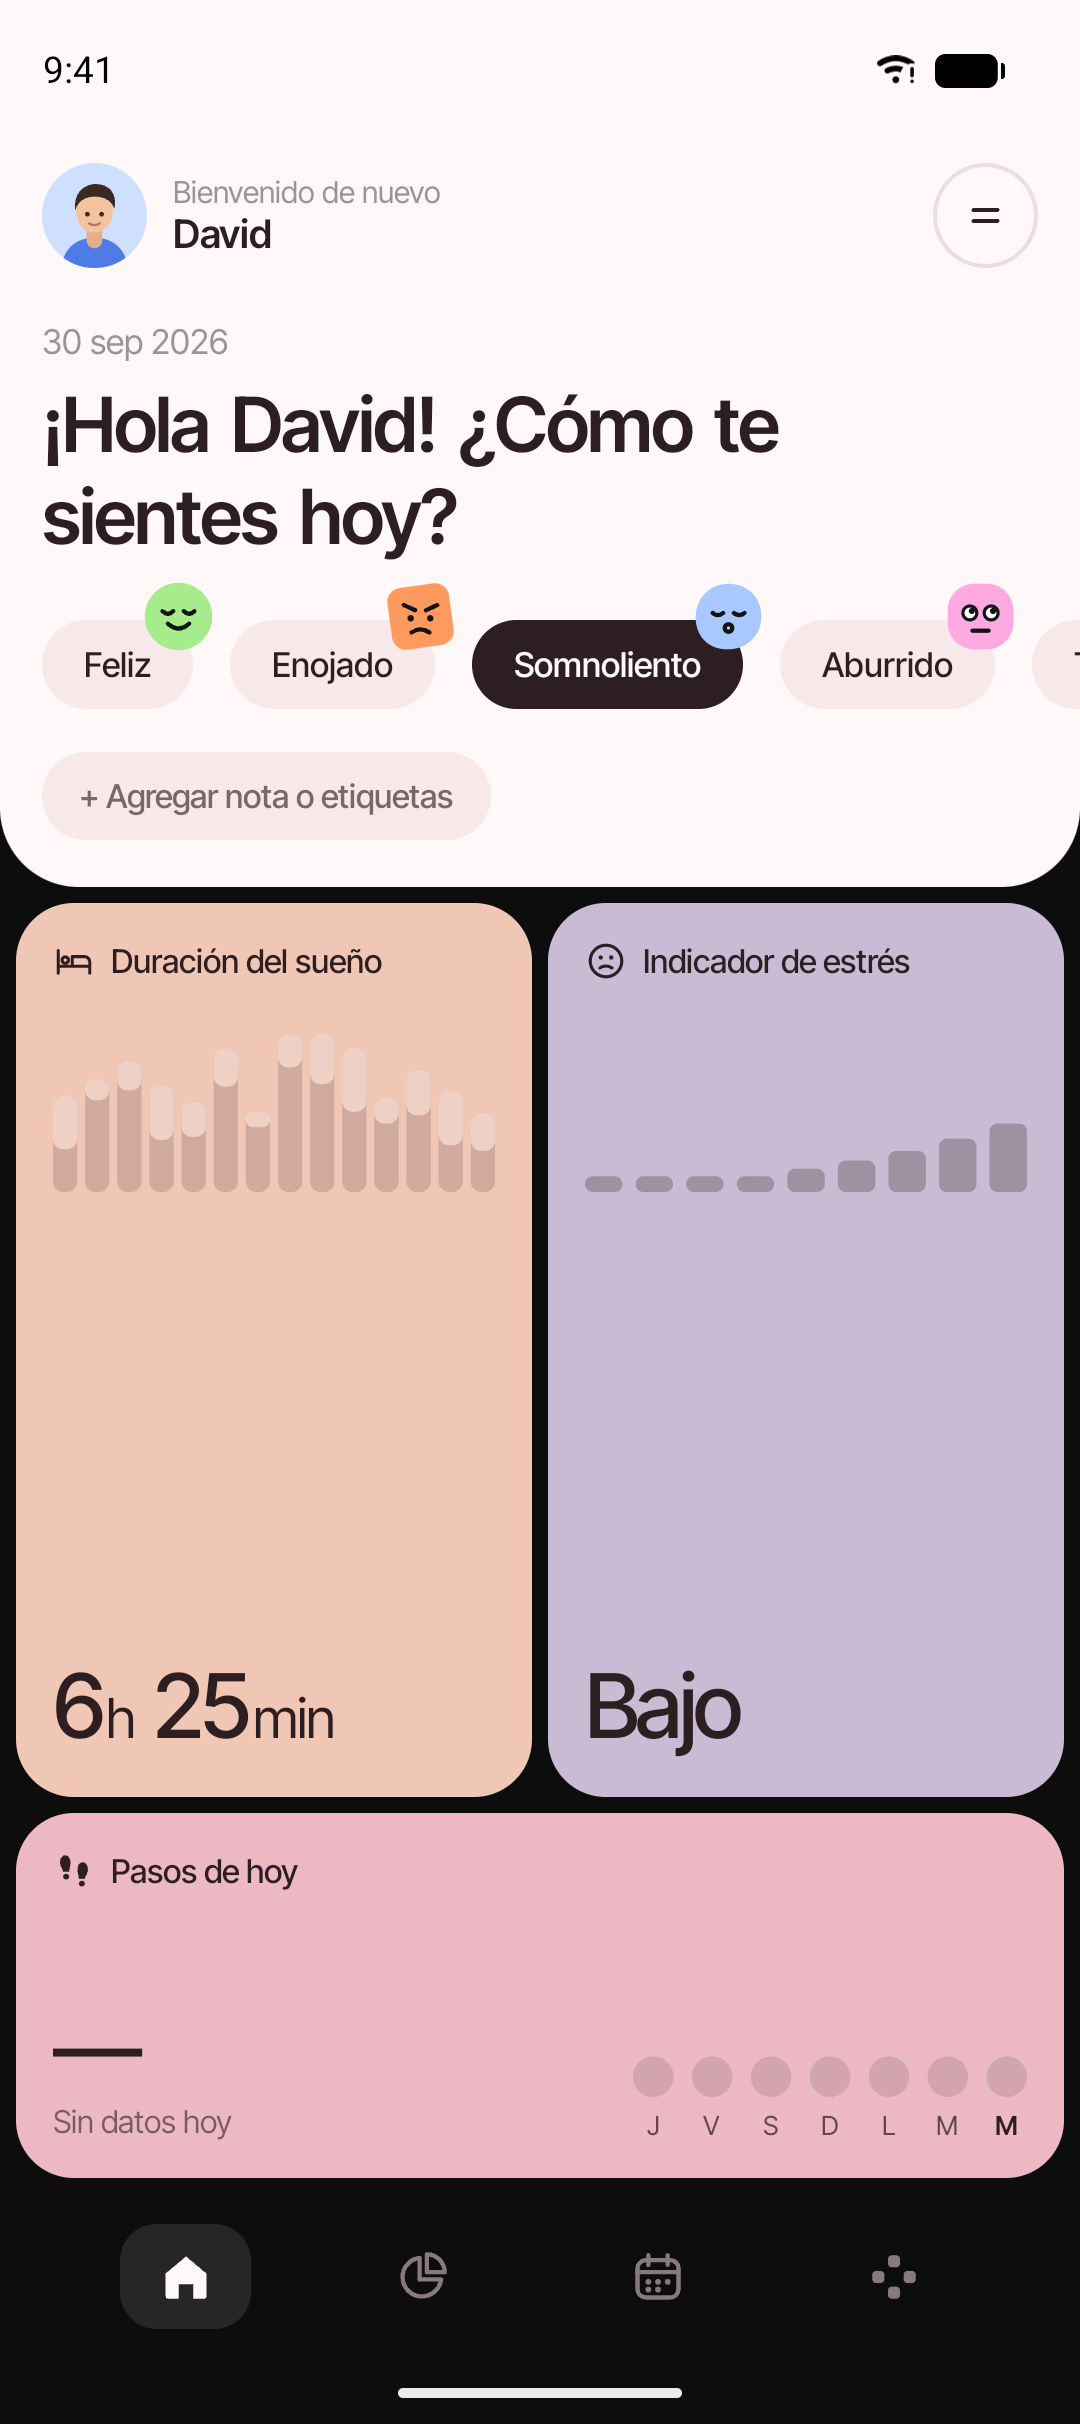
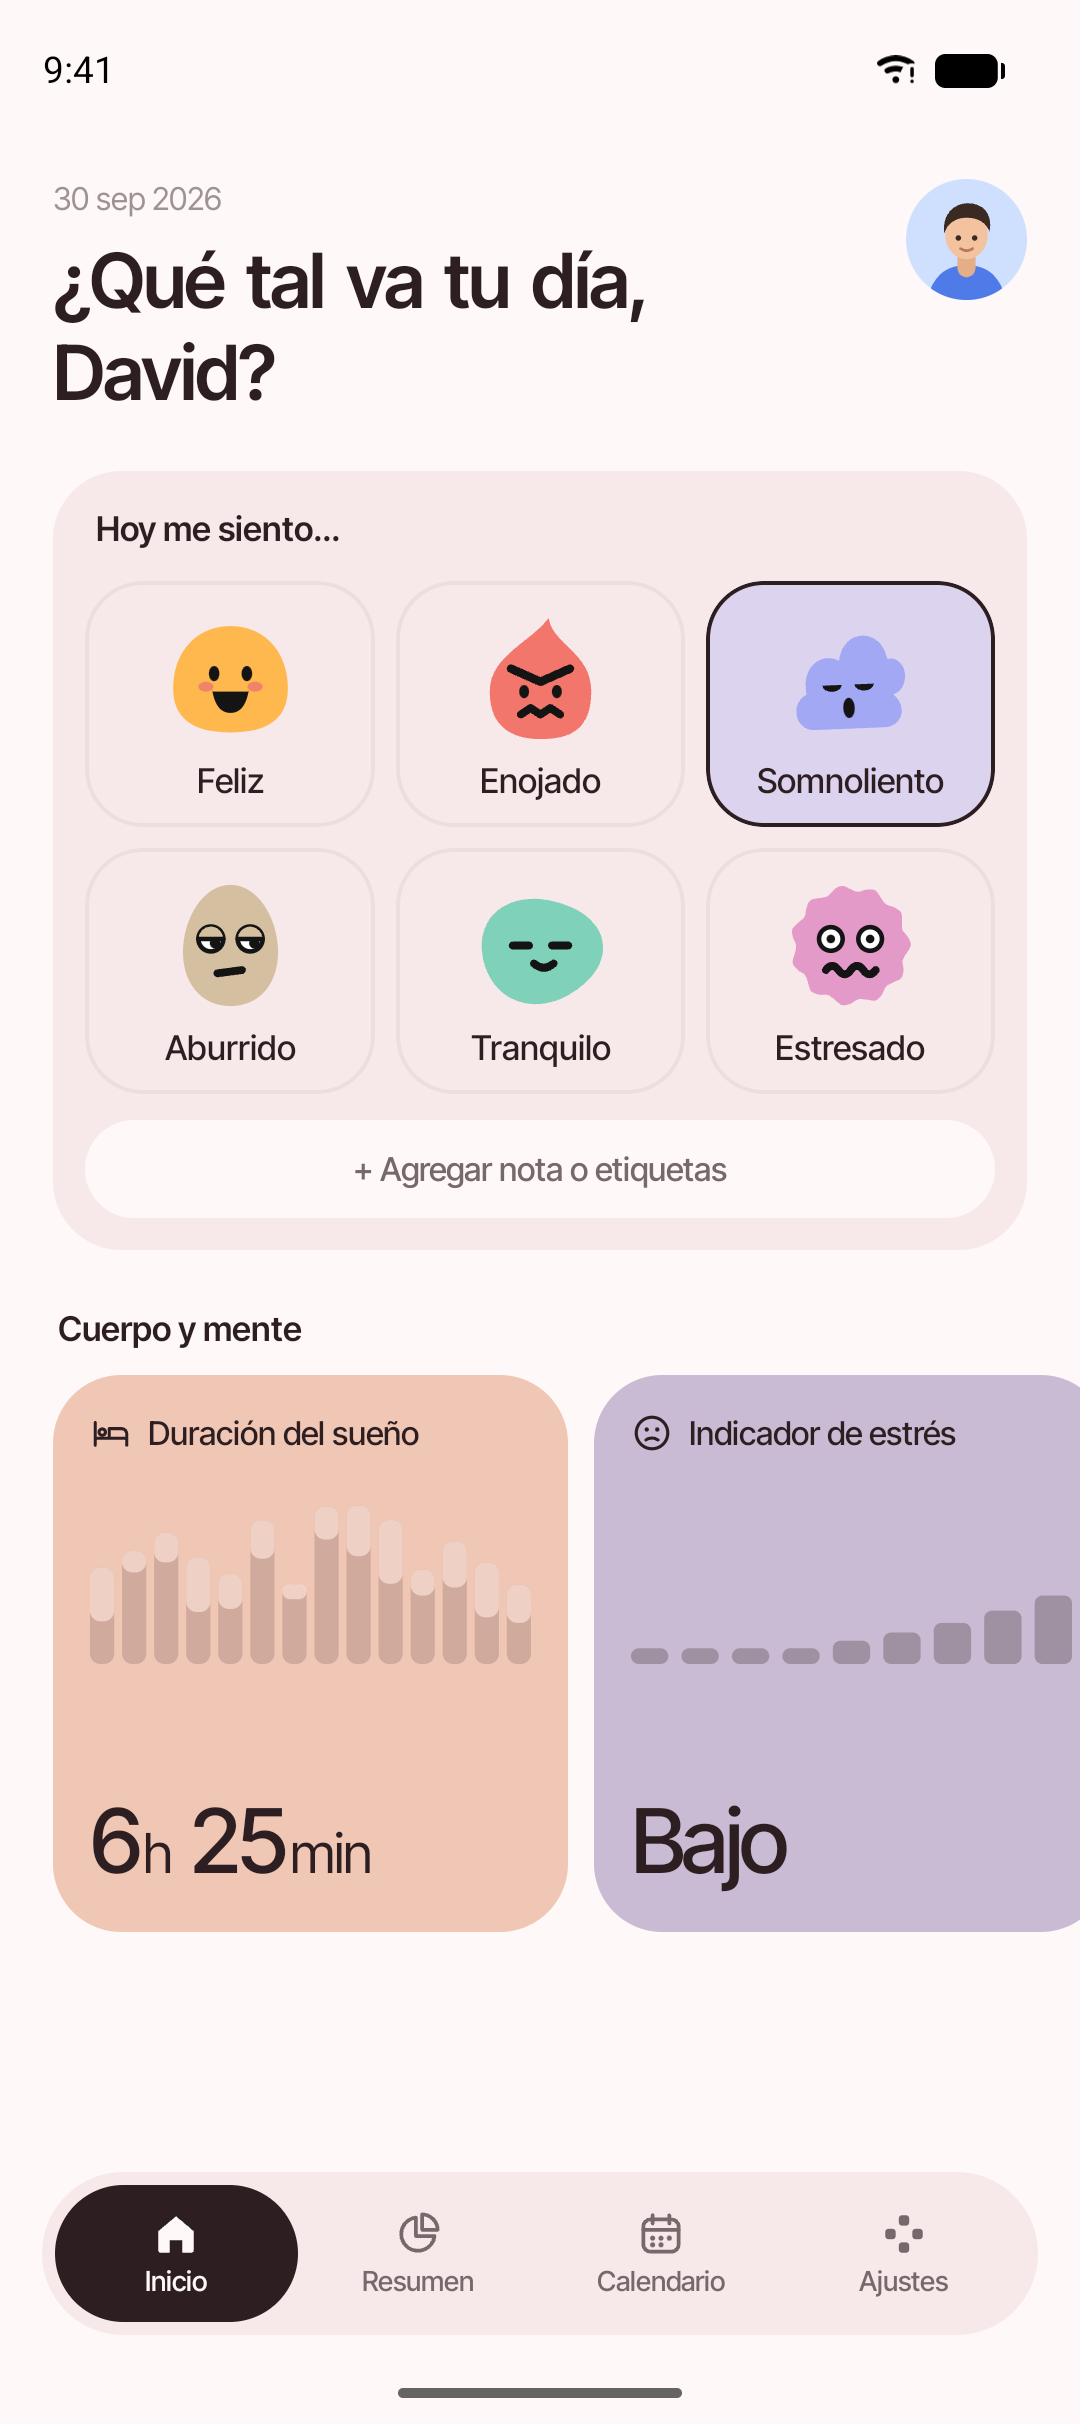
actualizar capturas y readme

diff --git a/README.md b/README.md
@@ -5,12 +5,13 @@ App nativa de Android para llevar el registro diario del ánimo, hecha con **Kot
 <p align="center">
   <img src="docs/screenshots/01-inicio.png" width="22%" alt="Inicio" />
   <img src="docs/screenshots/02-resumen.png" width="22%" alt="Resumen del mes" />
-  <img src="docs/screenshots/03-calendario.png" width="22%" alt="Calendario de ánimo" />
-  <img src="docs/screenshots/04-temas.png" width="22%" alt="Temas de color" />
+  <img src="docs/screenshots/03-calendario.png" width="22%" alt="Calendario" />
+  <img src="docs/screenshots/04-ajustes.png" width="22%" alt="Ajustes" />
 </p>
 <p align="center">
   <img src="docs/screenshots/05-inicio-oscuro.png" width="22%" alt="Inicio, tema Brasa" />
   <img src="docs/screenshots/06-calendario-oscuro.png" width="22%" alt="Calendario, tema Brasa" />
+  <img src="docs/screenshots/07-introduccion.png" width="22%" alt="Introducción" />
 </p>
 
 ## Descarga
@@ -19,10 +20,10 @@ Baja el APK más reciente desde [Releases](../../releases/latest). También pued
 
 ## Funciones
 
-- **Registro diario** de 6 ánimos (Feliz, Enojado, Somnoliento, Aburrido, Tranquilo, Estresado) con caras vectoriales animadas.
+- **Registro diario** de 6 ánimos (Feliz, Enojado, Somnoliento, Aburrido, Tranquilo, Estresado) con caras vectoriales animadas: un blob con silueta propia por ánimo.
 - **Contexto del día**: nota corta, etiquetas incluidas y propias, y horas de sueño.
 - **Estrés**: indicador y quiz corto que calcula un nivel bajo, medio o alto.
-- **Calendario** de ánimo por mes y **Resumen** del mes (ánimo principal, disciplina de registro, dona por ánimo).
+- **Calendario** de ánimo por mes y **Resumen** del mes (ánimo principal, constancia de registro, barra de proporciones por ánimo).
 - **Racha** de días consecutivos con registro.
 - **Patrones**: coincidencias entre tus etiquetas, sueño y pasos y tu ánimo.
 - **Health Connect** (opcional): importa sueño y pasos, solo lectura.
@@ -136,13 +137,13 @@ Conectar es opcional (Ajustes → Health Connect). Moodly solo **lee**, y solo c
 ## Animaciones
 
 - **Splash nativo** (core-splashscreen) hasta que carga el estado, sin parpadeo.
-- **Introducción**: las figuras caen con gravedad y rebote, luego flotan. Se arrastran (regresan con resorte) o se tocan (se aplastan como gelatina). Al tocar "¡Te ayudamos!" caen fuera de la pantalla.
+- **Introducción**: las figuras caen con gravedad y rebote, luego flotan. Se arrastran (regresan con resorte) o se tocan (se aplastan como gelatina). Al tocar "Empezar" caen fuera de la pantalla.
 - **Caras con gesto propio**: la cara seleccionada repite un gesto característico tras pausas de 2.5 a 6 segundos.
 - **Pestañas** estilo push/pop: la pantalla nueva entra completa y la anterior se desplaza y se atenúa.
 - **Atrás predictivo de Android**: desde Resumen, Calendario o Ajustes, el gesto arrastra la pantalla siguiendo el dedo y revela Inicio. Las hojas inferiores también responden.
 - **Hojas inferiores** con resorte, arrastre para cerrar y la pantalla de fondo encogiéndose como en iOS.
 - **Avisos heads-up**: una tarjeta baja desde la barra de estado, tintada con el color del ánimo, con barra de progreso; se descarta deslizándola hacia arriba o tras 2.4 s.
-- Entrada escalonada del inicio, barras que crecen con rebote, contadores animados, celdas del calendario que brotan en diagonal, deslizamiento entre meses con rebote en los límites y dona que crece en sentido horario.
+- Entrada escalonada del inicio, barras que crecen con rebote, contadores animados, celdas del calendario que brotan en diagonal, deslizamiento entre meses con rebote en los límites y barra de distribución que crece de izquierda a derecha.
 - **Vibración nativa** (`HapticFeedbackConstants`) en toques, confirmaciones y errores; se apaga en Ajustes.
 - **Reducir animaciones** (Ajustes) simplifica transiciones y quita las entradas escalonadas y los gestos de las caras.
 
